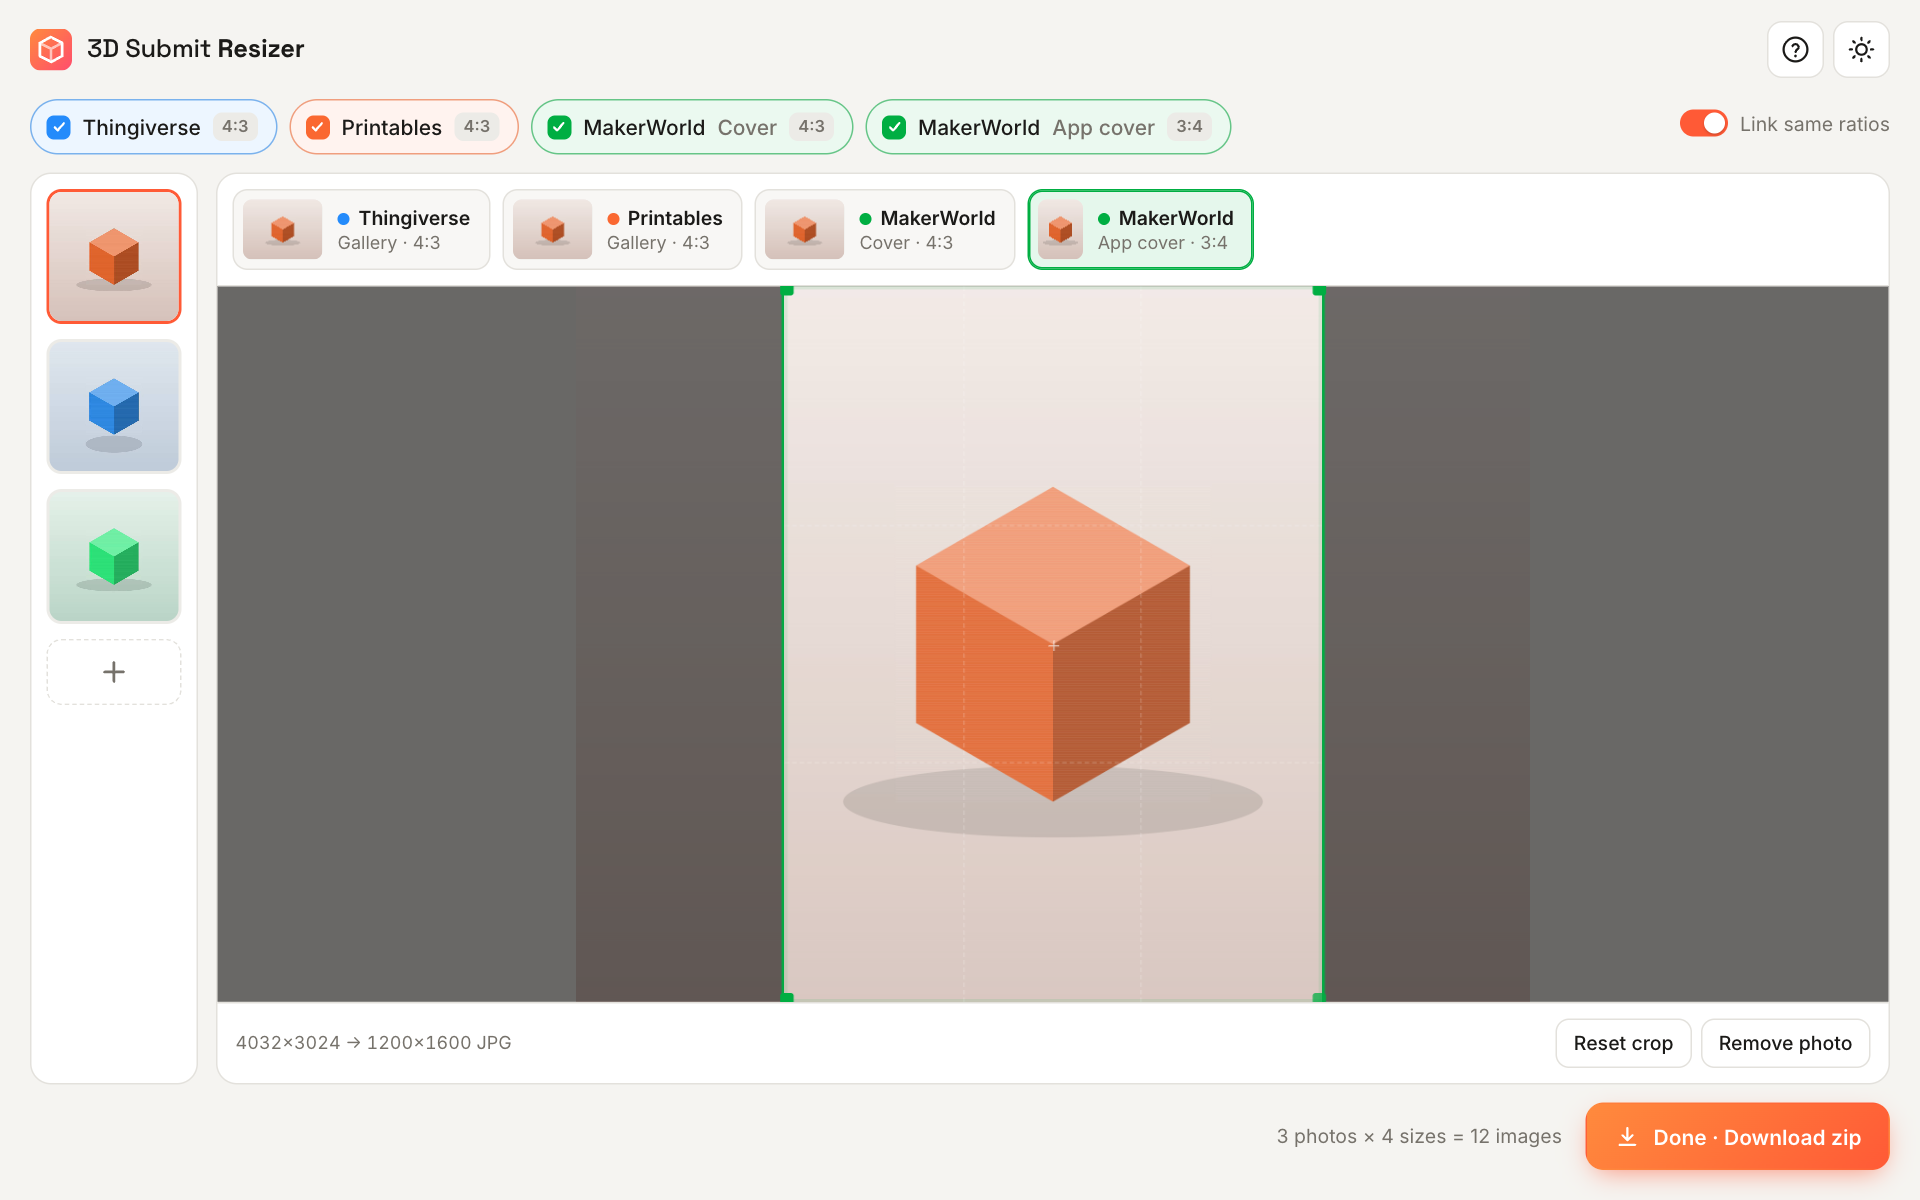
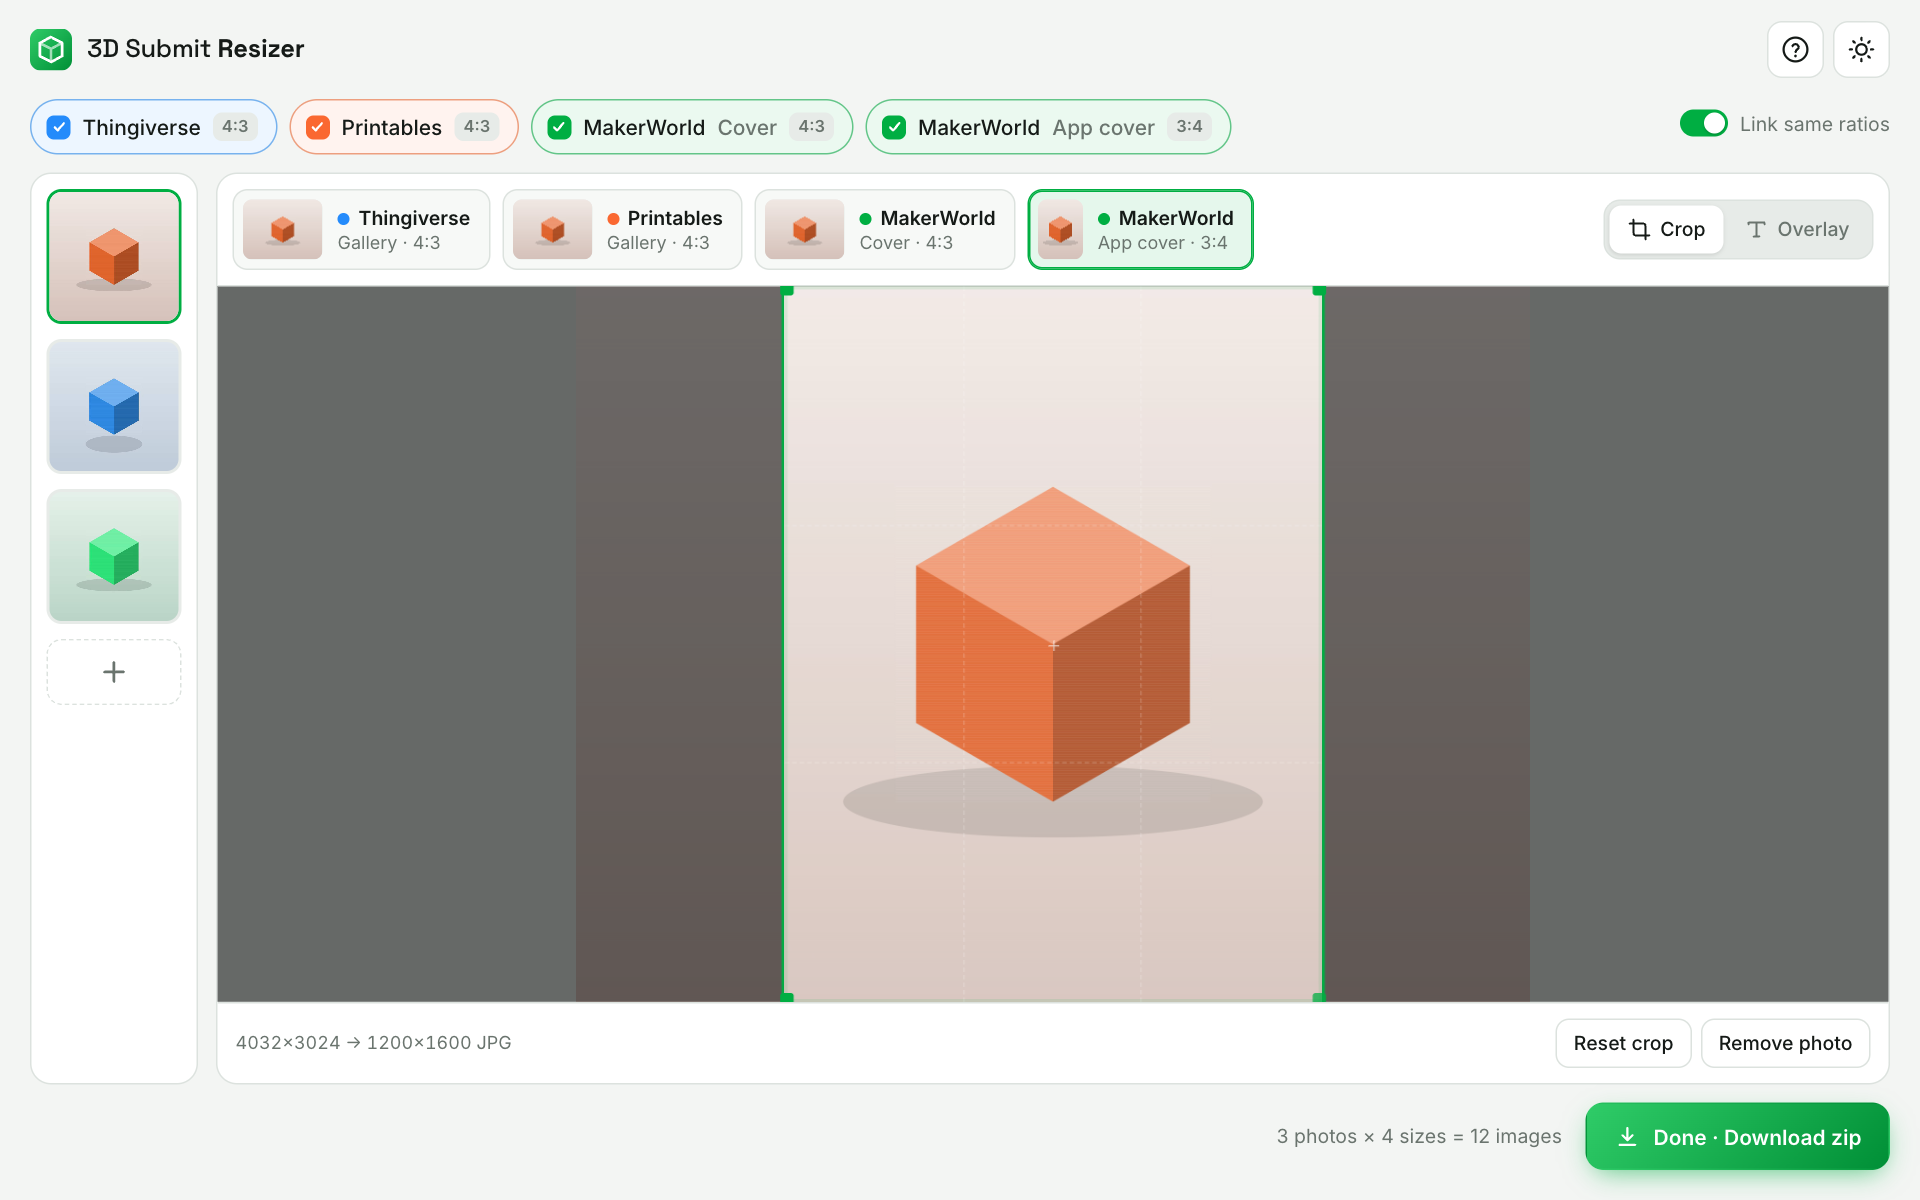
Switch to a Bambu-style green color scheme

diff --git a/styles.css b/styles.css
@@ -1,48 +1,55 @@
 :root {
-  --bg: #f5f4f1;
-  --bg-2: #ecebe7;
+  --bg: #f3f5f3;
+  --bg-2: #e7ebe8;
   --panel: #ffffff;
-  --panel-2: #f8f7f5;
-  --line: #e3e1dc;
-  --text: #1b1a18;
-  --muted: #76726b;
-  --accent: #ff5a36;
-  --accent-2: #ff8a3d;
+  --panel-2: #f7f9f7;
+  --line: #dce2de;
+  --text: #151a17;
+  --muted: #6a746e;
+  --accent: #00ae42;
+  --accent-2: #2fcc68;
+  --accent-strong: #008f36;
   --accent-ink: #ffffff;
-  --stage: #e9e7e2;
+  --stage: #e3e8e4;
   --danger: #d9363e;
   --tv: #248bfb;
   --pr: #fa6831;
   --mw: #00ae42;
-  --shadow: 0 1px 2px rgba(20, 18, 14, .06), 0 8px 24px rgba(20, 18, 14, .06);
+  --shadow: 0 1px 2px rgba(10, 30, 18, .06), 0 8px 24px rgba(10, 30, 18, .06);
   --radius: 14px;
   color-scheme: light;
 }
 
 @media (prefers-color-scheme: dark) {
   :root:not([data-theme="light"]) {
-    --bg: #0e0f12;
-    --bg-2: #15171b;
-    --panel: #17191e;
-    --panel-2: #1d2026;
-    --line: #2a2d34;
-    --text: #eceae6;
-    --muted: #8f939c;
-    --stage: #0a0b0d;
+    --bg: #0b0e0c;
+    --bg-2: #121714;
+    --panel: #151a17;
+    --panel-2: #1a211d;
+    --line: #253029;
+    --text: #e8eee9;
+    --muted: #8a968e;
+    --accent: #1ec45c;
+    --accent-2: #3ddc78;
+    --accent-strong: #00a33d;
+    --stage: #070908;
     --shadow: 0 1px 2px rgba(0, 0, 0, .4), 0 8px 24px rgba(0, 0, 0, .35);
     color-scheme: dark;
   }
 }
 
 :root[data-theme="dark"] {
-  --bg: #0e0f12;
-  --bg-2: #15171b;
-  --panel: #17191e;
-  --panel-2: #1d2026;
-  --line: #2a2d34;
-  --text: #eceae6;
-  --muted: #8f939c;
-  --stage: #0a0b0d;
+  --bg: #0b0e0c;
+  --bg-2: #121714;
+  --panel: #151a17;
+  --panel-2: #1a211d;
+  --line: #253029;
+  --text: #e8eee9;
+  --muted: #8a968e;
+  --accent: #1ec45c;
+  --accent-2: #3ddc78;
+  --accent-strong: #00a33d;
+  --stage: #070908;
   --shadow: 0 1px 2px rgba(0, 0, 0, .4), 0 8px 24px rgba(0, 0, 0, .35);
   color-scheme: dark;
 }
@@ -456,7 +463,7 @@ main {
   user-select: none;
 }
 .frame canvas { display: block; width: 100%; height: 100%; }
-.guide { position: absolute; background: #ff3df0; pointer-events: none; }
+.guide { position: absolute; background: var(--accent-2); pointer-events: none; }
 .guide.gv { top: 0; bottom: 0; left: 50%; width: 1px; }
 .guide.gh { left: 0; right: 0; top: 50%; height: 1px; }
 .sel-box {
@@ -631,7 +638,7 @@ main {
 }
 .btn:active { transform: scale(.98); }
 .btn.primary {
-  background: linear-gradient(135deg, var(--accent-2), var(--accent));
+  background: linear-gradient(135deg, var(--accent-2), var(--accent-strong));
   color: var(--accent-ink);
   box-shadow: 0 6px 18px -6px color-mix(in srgb, var(--accent) 70%, transparent);
 }

diff --git a/app.js b/app.js
@@ -678,8 +678,8 @@ const PRESETS = [
     set: { color: '#ffffff', outline: true, outlineColor: '#000000', outlineWidth: 0.08, shadow: false, d3: false, box: false } },
   { name: 'Shadow', css: 'color:#fff;text-shadow:0 2px 5px rgba(0,0,0,.7)',
     set: { outline: false, shadow: true, shadowColor: '#000000', shadowAlpha: 0.6, shadowBlur: 0.18, shadowDist: 0.06, shadowAngle: 90, d3: false, box: false } },
-  { name: '3D', css: 'color:#fff;text-shadow:1px 1px 0 #ff5a36,2px 2px 0 #ff5a36,3px 3px 0 #ff5a36,4px 4px 0 #ff5a36',
-    set: { color: '#ffffff', outline: false, d3: true, d3Color: '#ff5a36', d3Depth: 0.09, d3Angle: 45, shadow: true, shadowColor: '#000000', shadowAlpha: 0.35, shadowBlur: 0.2, shadowDist: 0.08, shadowAngle: 60, box: false } },
+  { name: '3D', css: 'color:#fff;text-shadow:1px 1px 0 #00ae42,2px 2px 0 #00ae42,3px 3px 0 #00ae42,4px 4px 0 #00ae42',
+    set: { color: '#ffffff', outline: false, d3: true, d3Color: '#00ae42', d3Depth: 0.09, d3Angle: 45, shadow: true, shadowColor: '#000000', shadowAlpha: 0.35, shadowBlur: 0.2, shadowDist: 0.08, shadowAngle: 60, box: false } },
   { name: 'Neon', css: 'color:#fff;text-shadow:0 0 4px #ff3df0,0 0 10px #ff3df0',
     set: { color: '#ffffff', outline: true, outlineColor: '#ff3df0', outlineWidth: 0.025, shadow: true, shadowColor: '#ff3df0', shadowAlpha: 1, shadowBlur: 0.45, shadowDist: 0, d3: false, box: false } },
   { name: 'Box', css: 'color:#fff;background:#000;border-radius:5px;padding:2px 6px;font-size:13px',
